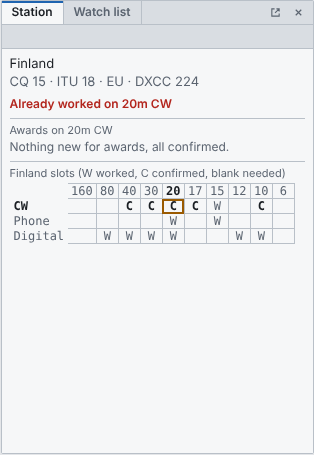
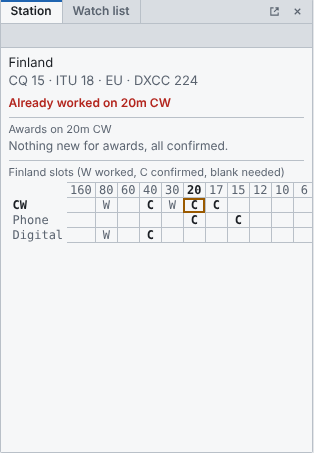
Refresh README and website for everything through #167, retake screenshots
New in the text: Spotted me, ntfy push alerts, DX Marathon, Honor Roll, 5BWAS, Triple Play, 5BWAZ, editable mode list, Worked before Full view, DXCC slots pane, bulk edit, frameless and remembered windows. Status paragraph updated for what has been tested on real hardware. Screenshots retaken on a demo log (N0CALL).

Claude-Session: https://claude.ai/code/session_018GxfD9amiufc975LbFYDBd

Changed region(s): [[0.0, 0.0, 1.0, 1.0], [0.172, 0.1545, 0.4013, 0.1854]]

diff --git a/site/index.html b/site/index.html
@@ -27,7 +27,7 @@
 <div class="hero">
 <div class="readout">14.0250 MHz &nbsp;CW &nbsp;599</div>
 <h1>The logger that <em>keeps up</em> with the pileup.</h1>
-<p class="lead">QRZero is a fast, reliable logbook for DX chasers and CW operators. It talks to your radio, WSJT-X, N1MM+ and the cluster, watches your awards as you log, and sends your QSLs on their way.</p>
+<p class="lead">QRZero is a fast, reliable logbook for DX chasers and CW operators. It talks to your radio, WSJT-X, N1MM+ and the cluster, watches your awards as you log, tells your phone when a needed station is spotted, and sends your QSLs on their way.</p>
 <div class="cta"><a class="btn" href="download.html">Download <span data-version></span></a><a class="btn ghost" href="guide.html">How to use it</a></div>
 <div class="sub">Windows &middot; macOS (Apple Silicon) &middot; Linux &middot; free &middot; alpha</div>
 <figure class="shot">
@@ -48,7 +48,7 @@
 <div class="card"><h3>Local first</h3><p>Your log lives on your computer. QRZero only goes online for services you switch on. Passwords go in the system keychain, never in the log file.</p></div>
 <div class="card"><h3>DX chaser friendly</h3><p>A <b>Needed now</b> list with sound and popup alerts, split-aware spots, band-by-mode slot grids and new-one flags the moment you type a call.</p></div>
 <div class="card"><h3>Know your log</h3><p>A Statistics window sums up DXCC progress by year, confirmation rates for every service and your most worked entities and calls, on demand and with nothing running in the background.</p></div>
-<div class="card"><h3>Your window, your way</h3><p>Dock, tab, resize and pop out any pane, save named layouts for each shack setup, and remap every key. Search the settings instead of hunting for them.</p></div>
+<div class="card"><h3>Your window, your way</h3><p>Dock, tab, resize and pop out any pane, save named layouts for each shack setup, and remap every key. Windows reopen where you left them. Search the settings instead of hunting for them.</p></div>
 <div class="card"><h3>Open in a browser</h3><p>The same screens run in any web browser, so a second computer in the shack can use your log. UDP connections feed anything else.</p></div>
 <div class="card"><h3>Plain and classic</h3><p>A dense desktop-logger layout. No account, no cloud, no wizard to fight. Light and dark themes.</p></div>
 </div>
@@ -67,8 +67,8 @@
 <p class="intro">A few of the things QRZero does. The <a href="guide.html">how-to guide</a> covers the rest.</p>
 
 <div class="feature">
-<div class="text"><div class="tag">Logging</div><h3>Type the call. The rest fills itself.</h3><p>Press Tab or Space and QRZero looks the call up and fills in name, QTH, grid, country and DXCC. Press Enter to log. Anything you type wins over a lookup.</p><ul><li>Station pane shows what the contact is worth for each award</li><li>Worked-before list with duplicate markers and quick filters</li><li>Entry fields are yours: add, rename or give defaults to any ADIF field</li></ul></div>
-<div class="pic"><img src="img/station-panel.webp" alt="Station pane showing a new DXCC" loading="lazy" width="314" height="455"></div>
+<div class="text"><div class="tag">Logging</div><h3>Type the call. The rest fills itself.</h3><p>Press Tab or Space and QRZero looks the call up and fills in name, QTH, grid, country and DXCC. Press Enter to log. Anything you type wins over a lookup.</p><ul><li>Station pane shows what the contact is worth for each award</li><li>Worked-before list with duplicate markers and quick filters</li><li>Entry fields and the mode list are yours: add, rename or give defaults to any ADIF field or ADIF mode</li><li>Bulk edit sets one field on many QSOs at once</li></ul></div>
+<div class="pic"><img src="img/station-panel.webp" alt="Station pane showing a new DXCC" loading="lazy" width="314" height="453"></div>
 </div>
 <div class="feature flip">
 <div class="text"><div class="tag">Radio control</div><h3>Your radio follows the log, and the log follows your radio.</h3><p>Frequency, mode, split and PTT are read from the rig and can be set from the log. Clicking a spot or a decode tunes the radio, including split for <code>UP 5</code> style spots.</p><ul><li>Hamlib, TCI, Kenwood/Elecraft/Flex CAT, Yaesu and Icom CI-V</li><li>Several radios for SO2R and Flex slices</li><li>Rotator control with a compass dial and a map behind it</li></ul></div>
@@ -79,12 +79,12 @@
 <div class="pic"><img src="img/ftx-monitor.webp" alt="FTx monitor with decodes" loading="lazy" width="1600" height="400"></div>
 </div>
 <div class="feature flip">
-<div class="text"><div class="tag">DX cluster</div><h3>Spots, a band map and a watch list.</h3><p>Connect to a cluster, filter what you see, and let QRZero flag the spots that would be new for you. The band map and watch list keep the interesting ones in front of you.</p><ul><li>Click a spot to QSY the radio</li><li>Spot a station you just worked, with a preview of the exact line sent</li><li>Needed now ranks new entities by Club Log's Most Wanted list</li><li>DXpeditions, contest calendar and propagation panes</li></ul></div>
-<div class="pic"><img src="img/cluster.webp" alt="DX cluster pane" loading="lazy" width="1600" height="410"></div>
+<div class="text"><div class="tag">DX cluster</div><h3>Spots, a band map and a watch list.</h3><p>Connect to a cluster, filter what you see, and let QRZero flag the spots that would be new for you. The band map and watch list keep the interesting ones in front of you.</p><ul><li>Click a spot to QSY the radio</li><li>Spot a station you just worked, with a preview of the exact line sent</li><li>Needed now ranks new entities by Club Log's Most Wanted list</li><li>A Spotted me list shows who is hearing you</li><li>Alerts for needed stations can go to your phone through ntfy</li><li>DXpeditions, contest calendar and propagation panes</li></ul></div>
+<div class="pic"><img src="img/cluster.webp" alt="DX cluster pane" loading="lazy" width="1600" height="203"></div>
 </div>
 <div class="feature">
-<div class="text"><div class="tag">Awards</div><h3>Watch your awards fill in as you log.</h3><p>DXCC, WAS, WAZ, WPX and more, plus the CW club awards: SKCC, CWops, NAQCC and FISTS, with CWT medals. QRZero shows what is worked, confirmed and, for DXCC, verified by LoTW.</p><ul><li>Band-by-mode slot grids, DXCC Challenge and 5BDXCC</li><li>Club numbers filled from your last QSO with the call</li><li>Hide the awards you do not chase</li></ul></div>
-<div class="pic"><img src="img/awards.webp" alt="Awards pane" loading="lazy" width="1600" height="503"></div>
+<div class="text"><div class="tag">Awards</div><h3>Watch your awards fill in as you log.</h3><p>DXCC, WAS, WAZ, WPX and more, the CQ DX Marathon, and the CW club awards: SKCC, CWops, NAQCC and FISTS, with CWT medals. QRZero shows what is worked, confirmed and, for DXCC, verified by LoTW.</p><ul><li>Band-by-mode slot grids, DXCC Challenge, 5BDXCC, Honor Roll, 5BWAS, Triple Play and 5BWAZ</li><li>Club numbers filled from your last QSO with the call</li><li>Hide the awards you do not chase</li></ul></div>
+<div class="pic"><img src="img/awards.webp" alt="Awards pane" loading="lazy" width="1600" height="501"></div>
 </div>
 <div class="feature flip">
 <div class="text"><div class="tag">QSLs</div><h3>LoTW, Club Log, QRZ.com, eQSL and paper in one window.</h3><p>Uploads can run automatically a couple of minutes after you log, or in bulk by date range with a preview. Confirmations download back. Paper QSL has a queue and label printing.</p><ul><li>Bulk paper QSL mailings and Brother QL label printing</li><li>LoTW station location override for portable operating</li><li>Per-service activity logs</li></ul></div>

diff --git a/site/guide.html b/site/guide.html
@@ -50,12 +50,12 @@
 <p>Type the call, press <kbd>Tab</kbd> or <kbd>Space</kbd>, and QRZero fills in what it can. Press <kbd>Enter</kbd> to log. The start time is taken from when you began typing, the form clears, and the cursor goes back to the call box.</p>
 <ul>
 <li>Boxes filled by a lookup are coloured differently from what you typed, and what you type always wins.</li>
-<li>Type a frequency and the band is set; choose a mode and the usual report is filled in.</li>
+<li>Type a frequency and the band is set; choose a mode and the usual report is filled in. The Mode box offers a short list of your own: add any ADIF mode under <b>Settings &rarr; Modes</b>.</li>
 <li><b>Enter date/time</b> lets you log from a paper log after the fact.</li>
-<li>The <b>Station</b> pane tells you if a call would be new for any award. <b>Worked before</b> lists every earlier QSO with the station.</li>
-<li>Double-click any QSO in the log to edit all of its fields in its own window.</li>
+<li>The <b>Station</b> pane tells you if a call would be new for any award. <b>Worked before</b> lists every earlier QSO with the station; <b>Full</b> adds a summary line of bands, modes and confirmations. Click a cell in the slot grid to list every QSO in that slot.</li>
+<li>Double-click any QSO in the log to edit all of its fields in its own window, or select many and use <b>Bulk edit</b> to set one field on all of them.</li>
 </ul>
-<figure><img src="img/station-panel.webp" alt="Station pane" loading="lazy" width="314" height="455"><figcaption>The Station pane: location, award value and the band-by-mode slot grid (W worked, C confirmed).</figcaption></figure>
+<figure><img src="img/station-panel.webp" alt="Station pane" loading="lazy" width="314" height="453"><figcaption>The Station pane: location, award value and the band-by-mode slot grid (W worked, C confirmed).</figcaption></figure>
 
 <h2 id="radio">4. Connect a radio</h2>
 <p>Add your radio under <b>Settings &rarr; Equipment</b> and pick a <b>Rig control</b> method:</p>
@@ -75,13 +75,15 @@
 <figure><img src="img/ftx-monitor.webp" alt="FTx monitor" loading="lazy" width="1600" height="400"><figcaption>The FTx monitor. Stations calling you are pinned at the top.</figcaption></figure>
 
 <h2 id="spots">6. Spots and alerts</h2>
-<p>Connect to a DX cluster in <b>Settings &rarr; DX cluster</b>. Spots that would be new for you are flagged, and the <b>Needed now</b> pane can play a sound or pop up an alert. Click a spot to tune the radio; for split spots the radio is set up in split too. <b>Needed now</b> puts the most wanted entities first, using Club Log's Most Wanted ranking. The <b>Band map</b> and <b>Watch list</b> keep the stations you care about in view.</p>
+<p>Connect to a DX cluster in <b>Settings &rarr; DX cluster</b>. Spots that would be new for you are flagged, and the <b>Needed now</b> pane can play a sound or pop up an alert. Click a spot to tune the radio; for split spots the radio is set up in split too. <b>Needed now</b> puts the most wanted entities first, using Club Log's Most Wanted ranking. The <b>Band map</b> and <b>Watch list</b> keep the stations you care about in view, and the <b>Spotted me</b> pane lists the spots of your own callsigns so you can see who hears you.</p>
+<p>To get alerts away from the radio, open <b>Settings &rarr; Alerts</b>, tick <b>Send alerts through ntfy</b> and subscribe to the topic in the free ntfy app on your phone. Needed spots, watch list hits and DXpeditions you still need are sent while QRZero runs.</p>
 <p>To spot a station you just worked, use <b>Spot&hellip;</b> in the entry panel. It shows the exact line that will go to the cluster and sends nothing until you click <b>Send spot</b>.</p>
-<figure><img src="img/cluster.webp" alt="Cluster pane" loading="lazy" width="1600" height="410"><figcaption>The cluster pane with spot flags.</figcaption></figure>
+<figure><img src="img/cluster.webp" alt="Cluster pane" loading="lazy" width="1600" height="203"><figcaption>The cluster pane with spot flags.</figcaption></figure>
+<figure><img src="img/spotted-me.webp" alt="Spotted me pane" loading="lazy" width="1600" height="203"><figcaption>The Spotted me pane lists who is hearing you.</figcaption></figure>
 
 <h2 id="awards">7. Awards</h2>
-<p>The <b>Awards</b> tab tracks DXCC, WAS, WAZ and WPX as you log, plus SKCC, CWops, NAQCC and FISTS for CW operators. Worked and confirmed are shown separately. Use <b>Settings &rarr; Awards</b> to hide the ones you do not chase, or to switch on <b>V</b> for DXCC credit granted by LoTW. DXCC also shows 5BDXCC band by band.</p>
-<figure><img src="img/awards.webp" alt="Awards pane" loading="lazy" width="1600" height="503"><figcaption>Awards summary.</figcaption></figure>
+<p>The <b>Awards</b> tab tracks DXCC, WAS, WAZ, WPX and the CQ DX Marathon as you log, plus SKCC, CWops, NAQCC and FISTS for CW operators. Worked and confirmed are shown separately. Use <b>Settings &rarr; Awards</b> to hide the ones you do not chase, or to switch on <b>V</b> for DXCC credit granted by LoTW. DXCC also shows 5BDXCC band by band and the Honor Roll; WAS has 5BWAS and Triple Play, and WAZ has 5BWAZ.</p>
+<figure><img src="img/awards.webp" alt="Awards pane" loading="lazy" width="1600" height="501"><figcaption>Awards summary.</figcaption></figure>
 
 <h2 id="qsl">8. QSLs and uploads</h2>
 <p>Open the <b>QSL</b> window from the &#9776; menu. Each service (LoTW, Club Log, QRZ Logbook, eQSL) can upload new QSOs automatically a couple of minutes after you log, or in bulk for a date range after a preview. Confirmations can be downloaded back so your Awards stay current. For paper cards, mark a card received or queue one to send, review the queue with full QSO and contact details, print labels, and mark them sent.</p>
@@ -91,7 +93,7 @@
 <p>Choose <b>Import ADIF&hellip;</b> from the &#9776; menu, pick the file and the location those QSOs were made from. Leave <b>Skip duplicates</b> on, so importing the same file twice is safe. Fields another program added for itself are kept and come back out on a <b>Full</b> export. QRZero makes daily backups automatically; restore one from <b>Settings &rarr; Backups</b>. <b>Statistics&hellip;</b> in the &#9776; menu sums up the log: DXCC progress by year, confirmation rates and your most worked entities and calls.</p>
 
 <h2 id="layout">10. Arrange the window</h2>
-<p>Panes can be dragged into tab groups, resized, hidden or popped out to another screen. Use the <b>Layout</b> button in the top bar to show or hide panes and to save and recall layouts.</p>
+<p>Panes can be dragged into tab groups, resized, hidden or popped out to another screen. Use the <b>Layout</b> button in the top bar to show or hide panes and to save and recall layouts. The main window and pop-outs reopen at the size and place you left them, and pop-outs can be kept on top of other windows. QRZero draws its own title bar; untick <b>Frameless windows</b> in <b>Settings &rarr; General</b> for the system frame.</p>
 
 <h2 id="browser">11. Browser mode</h2>
 <p>The same screens run in a web browser. The server is not in the release downloads: build it from the source (<code>cargo run --release -p qrzero-server</code>, see the README on GitHub), point it at your log folder and open the link it prints. The desktop app and the server cannot run at the same time against the same log.</p>

diff --git a/README.md b/README.md
@@ -2,13 +2,13 @@
 
 A fast, reliable amateur radio logger for Windows, macOS (Apple Silicon) and Linux.
 
-QRZero keeps your log in one SQLite file, stays quick with hundreds of thousands of QSOs, and talks to the programs and radios in a ham shack: WSJT-X, JTDX, N1MM Logger+, Hamlib, TCI, serial CAT, rotators, the DX cluster, QRZ.com, LoTW, Club Log and eQSL. It is built with DX chasing and CW in mind: spots that would be new for you raise an alert, awards from DXCC to the CW club awards are tracked as you log, and QSL cards, labels and online uploads are handled in one window, and a statistics window sums up your log.
+QRZero keeps your log in one SQLite file, stays quick with hundreds of thousands of QSOs, and talks to the programs and radios in a ham shack: WSJT-X, JTDX, N1MM Logger+, Hamlib, TCI, serial CAT, rotators, the DX cluster, QRZ.com, LoTW, Club Log and eQSL. It is built with DX chasing and CW in mind: spots that would be new for you raise an alert, awards from DXCC to the CW club awards are tracked as you log, and QSL cards, labels and online uploads are handled in one window, and a statistics window sums up your log. Alerts for needed stations can also go to your phone.
 
 ![QRZero main window](docs/screenshots/main-window.png)
 
 *Every screenshot in this file uses a made-up demo log for the placeholder call N0CALL. The country list, spots, contest calendar, decodes and confirmations are sample data.*
 
-**Contents:** [Install](#install) · [First run](#first-run) · [Logging](#logging-qsos) · [Radios and rotator](#radios-and-rotator) · [WSJT-X, JTDX and N1MM](#wsjt-x-jtdx-and-n1mm) · [DX cluster and band map](#dx-cluster-band-map-and-watch-list) · [Awards](#awards) · [QSL and online services](#qsl-and-online-services) · [Statistics](#statistics) · [ADIF](#adif-import-and-export) · [UDP connections](#udp-connections-and-startup-programs) · [Layout](#arranging-the-window) · [Settings, shortcuts and backups](#settings-keyboard-shortcuts-and-backups) · [Browser mode](#using-a-browser) · [Build from source](#building-from-source) · [Status](#status)
+**Contents:** [Install](#install) · [First run](#first-run) · [Logging](#logging-qsos) · [Radios and rotator](#radios-and-rotator) · [WSJT-X, JTDX and N1MM](#wsjt-x-jtdx-and-n1mm) · [DX cluster and band map](#dx-cluster-band-map-and-watch-list) · [Awards](#awards) · [Alerts on your phone](#alerts-on-your-phone) · [QSL and online services](#qsl-and-online-services) · [Statistics](#statistics) · [ADIF](#adif-import-and-export) · [UDP connections](#udp-connections-and-startup-programs) · [Layout](#arranging-the-window) · [Settings, shortcuts and backups](#settings-keyboard-shortcuts-and-backups) · [Browser mode](#using-a-browser) · [Build from source](#building-from-source) · [Status](#status)
 
 ## Why QRZero
 
@@ -21,14 +21,14 @@ QRZero keeps your log in one SQLite file, stays quick with hundreds of thousands
 
 ## What it does
 
-- **Logging.** One-key entry with QRZ.com and HamQTH lookups, customisable entry fields per mode, worked-before list, duplicate warnings, a Station pane that says what a contact is worth for every award, notes per callsign, a map with grey line and beam headings, and a fast log grid with a full QSO editor.
+- **Logging.** One-key entry with QRZ.com and HamQTH lookups, customisable entry fields per mode, worked-before list (simple, or with a summary line), duplicate warnings, a Station pane that says what a contact is worth for every award, notes per callsign, a map with grey line and beam headings, DXCC slot grids for the entity you are working, and a fast log grid with a full QSO editor and bulk editing.
 - **Radios.** Hamlib, TCI, Kenwood/Elecraft/Flex, Yaesu and Icom CI-V control with split, several radios at once (SO2R, Flex slices) and rotator control.
 - **Digital and contest programs.** WSJT-X, JTDX and N1MM Logger+ over UDP, with an FTx monitor that flags every decode against your log.
-- **Chasing DX.** DX cluster with filters, a **Needed now** list ranked by Club Log's Most Wanted list with sound and popup alerts, band map, watch list, DXpedition calendar, contest calendar, propagation and a band forecast.
-- **Awards.** DXCC (with Challenge, 5BDXCC and optional verified credit), WAS, WAZ, WPX, WAC, ITU zones, VUCC, IOTA, US counties, and SKCC, CWops, NAQCC and FISTS with CWT medals.
+- **Chasing DX.** DX cluster with filters, a **Needed now** list ranked by Club Log's Most Wanted list with sound and popup alerts (also as phone notifications through ntfy), a **Spotted me** list, band map, watch list, DXpedition calendar, contest calendar, propagation and a band forecast.
+- **Awards.** DXCC (with Challenge, 5BDXCC, Honor Roll and optional verified credit), WAS (5BWAS, Triple Play), WAZ (5BWAZ), WPX, WAC, ITU zones, VUCC, IOTA, US counties, the CQ DX Marathon, and SKCC, CWops, NAQCC and FISTS with CWT medals. 60 m is tracked like any other band.
 - **QSLs.** LoTW, QRZ Logbook, Club Log and eQSL uploads and confirmation downloads, plus a paper-card queue with label printing for bureau and direct mailings.
 - **Your data.** ADIF import and export with every field kept, several logs and callsigns, archived callsigns, locations and equipment shared between logs, daily backups, and a **Statistics** summary.
-- **Your window.** Dockable, tabbed, pop-out panes (with Always on top) saved as named layouts, light and dark, remappable keys, and a settings search.
+- **Your window.** Dockable, tabbed, pop-out panes (with Always on top) saved as named layouts, windows that reopen at the size and place you left them, light and dark, an optional system window frame, remappable keys, and a settings search.
 - **Elsewhere.** The same screens run in a web browser, and UDP connections feed anything else in the shack.
 
 ## Install
@@ -74,6 +74,9 @@ Type the call, press <kbd>Tab</kbd> or <kbd>Space</kbd>, and QRZero looks it up 
 
 - **Lookups** use QRZ.com XML when you have a login (results are cached for 30 days) or fall back to your own earlier QSOs and the country file. **Fill from QRZ** and **View on QRZ.com** buttons sit next to Clear.
 - **Frequency, band and mode** follow each other: type a frequency and the band is set; pick a mode and the usual report is filled in (all of those defaults are yours to change). FT4 is stored the way ADIF wants it, as `MFSK`/`FT4`, and shown as FT4.
+- **Your own mode list.** The Mode box offers a short list (CW, SSB, AM, FM, FT8, FT4, RTTY, PSK31). **Settings → Modes** adds any ADIF mode or submode, says whether it counts as CW, Phone or Digital for the awards, and removing one only hides it, so logged QSOs stay as they are.
+
+  ![Modes settings](docs/screenshots/settings-modes.png)
 - **Entry fields** are yours: pick a starting layout and add, remove, rename, resize or give defaults to any ADIF field, or invent your own. Tick *keep* to hold a value from one QSO to the next. CW, Phone and Digital can each have a layout of their own, so CW can show club numbers while SSB shows something else.
 
   ![Entry fields settings](docs/screenshots/settings-entry-fields.png)
@@ -94,7 +97,7 @@ As soon as you type a call, the side panes tell you what you need to know.
 | | |
 | --- | --- |
 | ![Worked before](docs/screenshots/worked-before.png) | ![Station pane](docs/screenshots/station-panel.png) |
-| **Worked before** lists every earlier QSO with the station (portable forms such as `/P` included) with QSL status, a duplicate marker, and quick filters for this band, this mode and unconfirmed. | The **Station** pane shows the station's details, your note, duplicate warnings, what the QSO would be worth for each award, and a band-by-mode grid of the entity's DXCC slots (**W** worked, **C** confirmed, blank still needed). |
+| **Worked before** lists every earlier QSO with the station (portable forms such as `/P` included) with QSL status, a duplicate marker, and quick filters for this band, this mode and unconfirmed. **Full** in its title bar adds a line with the bands and modes worked, the date of the first QSO and the bands confirmed; its columns can be moved, resized and hidden. | The **Station** pane shows the station's details, your note, duplicate warnings, what the QSO would be worth for each award, and a band-by-mode grid of the entity's DXCC slots (**W** worked, **C** confirmed, blank still needed). Click a cell to list every QSO in that slot, and show the grid as a **DXCC slots** pane of its own if you like. |
 
 A call that would be new for you says so plainly:
 
@@ -118,7 +121,7 @@ The log grid stays fast at any size. Search by call (with `*` wildcards), narrow
 
 ![Log grid right-click menu](docs/screenshots/log-menu.png)
 
-The right-click menu acts on the selected rows: edit, fill from QRZ, view on QRZ.com, spot to the cluster, send through your UDP connections, mark OQRS and card status, queue a card or answer one that arrived, export and delete. Double-click a QSO to edit it in its own window, grouped as Contact, Their location, My station, QSL (a table for LoTW, card, eQSL, QRZ and Club Log) and Other fields. **All ADIF fields** at the bottom edits everything stored with the QSO.
+The right-click menu acts on the selected rows: edit, fill from QRZ, view on QRZ.com, spot to the cluster, send through your UDP connections, mark OQRS and card status, queue a card or answer one that arrived, export and delete. Double-click a QSO to edit it in its own window, grouped as Contact, Their location, My station, QSL (a table for LoTW, card, eQSL, QRZ and Club Log) and Other fields. **All ADIF fields** at the bottom edits everything stored with the QSO. To set the same optional field on many QSOs at once (a contest ID, a comment, a POTA reference), select them and choose **Bulk edit**.
 
 ![QSO editor](docs/screenshots/qso-editor.png)
 
@@ -180,6 +183,12 @@ Add nodes under **Settings → DX cluster**; QRZero connects to the first and mo
 
 ![Cluster](docs/screenshots/cluster.png)
 
+### Spotted me
+
+The **Spotted me** pane lists the cluster spots of your own callsigns (portable forms such as W0NY/P included, archived calls left out): the time, frequency, band and mode, who spotted you, the spotter's country and the comment. A spotter ending in `-#` is a skimmer.
+
+![Spotted me](docs/screenshots/spotted-me.png)
+
 ### Needed now
 
 The **Needed now** pane lists only the spots on the air that would be new for your log, best first: a **new entity**, then a **new band** for an entity you have worked, then a **new mode**. Within each group the most wanted entity comes first: a **Wanted** column shows the entity's rank on Club Log's public Most Wanted list (fetched at most once a day, no Club Log login needed). It uses the same flags as the Cluster pane, lists each call, band and mode once however many people spot it, ranks CW, phone and digital together and drops spots after the time you choose (30 minutes to start with). Click a spot to fill in the QSO panel and tune the radio.
@@ -224,11 +233,15 @@ Once you type a call or pick an entity, the pane ends with a **Band forecast**: 
 
 ## Awards
 
-The **Awards** pane tracks **DXCC**, **WAS**, **WAZ**, **WPX**, **WAC**, **ITU zones**, **VUCC** (grids on 6 m and up), **IOTA** and **US counties**, with the **DXCC Challenge** and **5BDXCC** (counted band by band, 100 needed on each of 80, 40, 20, 15 and 10 m), plus the CW club awards below. Each row shows Mixed, CW, Phone and Digital plus every band from 160 m to 70 cm, a green **C** for confirmed and an amber **W** for worked. You choose what counts as confirmed (LoTW, cards, eQSL), can limit it to one callsign, hide what is already confirmed, and click a row to see its QSOs in the log. An optional **V** (verified) marks DXCC cells where LoTW has granted award credit; turn it on in **Settings → Awards** and run **Download verified credit** once on the LoTW page. When LoTW confirms a QSO, its DXCC entity replaces the one stored or taken from the country file. The QSO panel shows what the call you are typing would be worth for each award, and a download of confirmations lists what it newly confirmed (see [QSL and online services](#qsl-and-online-services)).
+The **Awards** pane tracks **DXCC**, **WAS**, **WAZ**, **WPX**, **WAC**, **ITU zones**, **VUCC** (grids on 6 m and up), **IOTA**, **US counties** and the **CQ DX Marathon**, with the **DXCC Challenge**, **5BDXCC** (counted band by band, 100 needed on each of 80, 40, 20, 15 and 10 m), the **Honor Roll**, **5BWAS**, **Triple Play** and **5BWAZ**, plus the CW club awards below. Each row shows Mixed, CW, Phone and Digital plus every band from 160 m to 70 cm (60 m included, and the columns you don't chase can be hidden), a green **C** for confirmed and an amber **W** for worked. You choose what counts as confirmed (LoTW, cards, eQSL), can limit it to one callsign, hide what is already confirmed, and click a row to see its QSOs in the log. An optional **V** (verified) marks DXCC cells where LoTW has granted award credit; turn it on in **Settings → Awards** and run **Download verified credit** once on the LoTW page. When LoTW confirms a QSO, its DXCC entity replaces the one stored or taken from the country file. The QSO panel shows what the call you are typing would be worth for each award, and a download of confirmations lists what it newly confirmed (see [QSL and online services](#qsl-and-online-services)).
 
 ![Awards](docs/screenshots/awards.png)
 
-Awards you don't chase can be switched off in **Settings → Awards**. They disappear from the pane and from the award lines in the QSO panel, your log is untouched, and ticking one again brings it back as it was. Any award added in a later version starts switched on.
+The **Marathon** button counts the countries and CQ zones worked in one calendar year, for all modes together or for CW, Phone or Digital alone. Deleted entities that come in with an imported log are counted and marked.
+
+![DX Marathon](docs/screenshots/awards-marathon.png)
+
+Awards you don't chase can be switched off in **Settings → Awards**. They disappear from the pane and from the award lines in the QSO panel, your log is untouched, and ticking one again brings it back as it was. Any award added in a later version starts switched on. **Spot flags** on the same page choose which awards, bands and modes make a cluster spot count as needed.
 
 ![Settings, Awards](docs/screenshots/settings-awards.png)
 
@@ -245,6 +258,12 @@ The **SKCC**, **CWops**, **NAQCC** and **FISTS** buttons count from the club num
 | --- | --- |
 | ![SKCC](docs/screenshots/awards-skcc.png) | ![CWops](docs/screenshots/awards-cwops.png) |
 | ![NAQCC](docs/screenshots/awards-naqcc.png) | ![FISTS](docs/screenshots/awards-fists.png) |
+
+## Alerts on your phone
+
+QRZero can send its alerts to your phone or another computer through **ntfy**, a free push service with no account needed: a needed station on the cluster, a watch list hit or a DXpedition you still need. Turn it on in **Settings → Alerts**, subscribe to the topic QRZero makes up in the ntfy app, and click **Send test**. Alerts go out only while QRZero is running and connected to the cluster.
+
+![Alerts settings](docs/screenshots/settings-alerts.png)
 
 ## QSL and online services
 
@@ -304,17 +323,17 @@ For everything QRZero does not know by name (an antenna switch, a band decoder, 
 
 ## Arranging the window
 
-Everything is a pane: New QSO, Station, Worked before, Map, Log, FTx monitor, Cluster, Needed now, Awards, Band map, Watch list, DXpeditions, Contests, Propagation, Rotator, Notes and MyClubs. Some start as tabs behind others (Needed now beside Cluster, Contests beside DXpeditions); open or hide any of them from the **Layout** menu. Drag a tab to dock a pane beside another or stack it as a tab, drag the bars to resize, hide panes you don't use, and pop any pane except New QSO and the Log out to its own window for a second screen (in the desktop app a pop-out can be kept **Always on top**). Save arrangements by name (a laptop layout, a two-screen shack layout, an FT8 evening) and switch between them; **Lock panes** stops accidents. Layouts live in the log database, so they survive restarts and come back with a restored backup.
+Everything is a pane: New QSO, Station, Worked before, DXCC slots, Map, Log, FTx monitor, Cluster, Needed now, Awards, Band map, Watch list, DXpeditions, Contests, Propagation, Rotator, Spotted me, Notes and MyClubs. Some start as tabs behind others (Needed now beside Cluster, Contests beside DXpeditions); open or hide any of them from the **Layout** menu. Drag a tab to dock a pane beside another or stack it as a tab, drag the bars to resize, hide panes you don't use, and pop any pane except New QSO and the Log out to its own window for a second screen (in the desktop app a pop-out can be kept **Always on top**). Save arrangements by name (a laptop layout, a two-screen shack layout, an FT8 evening) and switch between them; **Lock panes** stops accidents. Layouts live in the log database, so they survive restarts and come back with a restored backup.
 
 | | |
 | --- | --- |
 | ![Layout menu](docs/screenshots/layout-menu.png) | ![Dark mode](docs/screenshots/main-window-dark.png) |
 
-Colours can follow Windows or be always light or dark, and text size runs from 11 to 18 px.
+The main window and every pop-out reopen at the size and place you left them, maximized if that is how you closed them. In the desktop app QRZero draws its own title bar; untick **Frameless windows** in **Settings → General** to get the system frame back. Colours can follow Windows or be always light or dark, and text size runs from 11 to 18 px.
 
 ## Settings, keyboard shortcuts and backups
 
-**Settings** (☰ menu) opens on **General** and groups its sections down the left: Program (General, Backups, Keyboard), Station (Callsigns, Locations, Equipment, Logs), Logging (Entry fields, Callsign lookup, Awards) and Connections (Radios and programs, UDP connections, DX cluster, Startup programs).
+**Settings** (☰ menu) opens on **General** and groups its sections down the left: Program (General, Backups, Keyboard), Station (Callsigns, Locations, Equipment, Logs), Logging (Entry fields, Modes, Callsign lookup, Awards) and Connections (Radios and programs, UDP connections, DX cluster, Alerts, Startup programs).
 
 ![Settings General](docs/screenshots/settings-general.png)
 
@@ -363,6 +382,7 @@ The full user guide is in [docs/user](docs/user/01-getting-started.md) and is bu
 17. [DXpeditions](docs/user/17-dxpeditions.md)
 18. [Contests](docs/user/18-contests.md)
 19. [Statistics](docs/user/19-statistics.md)
+20. [Push alerts (ntfy)](docs/user/20-alerts.md)
 
 | | |
 | --- | --- |
@@ -420,7 +440,7 @@ Pushing a tag builds the Windows, macOS and Linux packages and attaches them to 
 
 ## Status
 
-QRZero is in active development and its versions are alpha releases. Most integrations are built from the protocol documentation and checked against stand-ins in the test suite. The Mac build has only been built and tested in CI so far, not on a real Mac. Real-station testing so far covers WSJT-X, N1MM Logger+, AetherSDR over TCI and a WRC rotator controller over GS-232; the rest (Hamlib, serial CAT, CI-V, the other online services, QL-700 label printing, the contest calendar and the NAQCC and FISTS award rules) is less proven, so reports and bug reports are welcome. Keep your own ADIF export and the automatic backups until you trust it.
+QRZero is in active development and its versions are alpha releases. Most integrations are built from the protocol documentation and checked against stand-ins in the test suite. The Mac build is built and tested in CI and has been started on an Apple Silicon Mac, but has had little everyday use. Real-station testing so far covers WSJT-X, N1MM Logger+, AetherSDR over TCI, a WRC rotator controller over GS-232 (including turning from the map), split spots, pop-out windows and Club Log bulk upload; the rest (Hamlib, serial CAT, CI-V, the other online services, QL-700 label printing, the contest calendar and the NAQCC and FISTS award rules) is less proven, so reports and bug reports are welcome. Keep your own ADIF export and the automatic backups until you trust it.
 
 ## License
 
